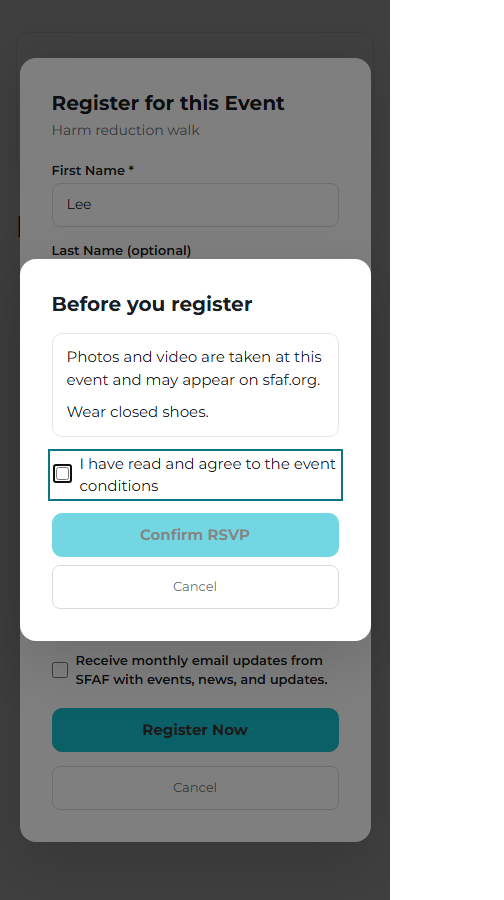
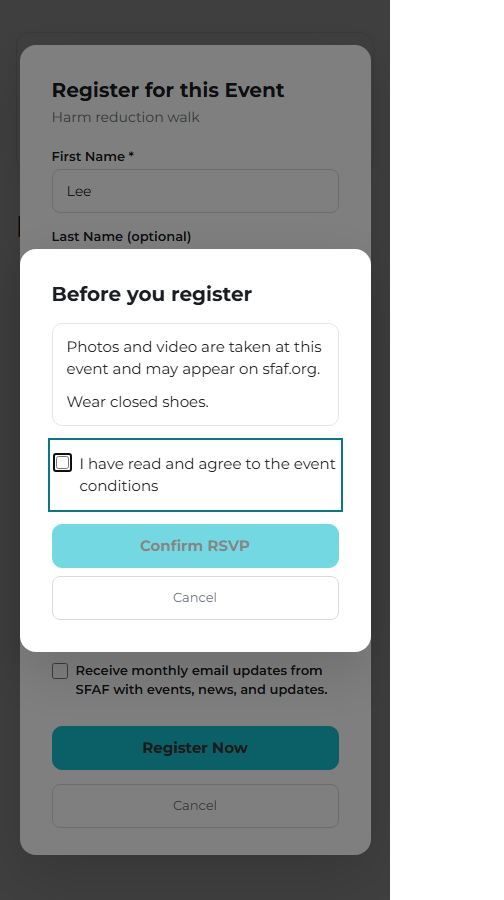
3.110.0: tick labels reach 44px by padding, keeping the box on the first line; the schema plant follows 13

Changed region(s): [[0.0298, 0.0311, 0.744, 0.9022], [0.0298, 0.9333, 0.744, 0.9644]]

diff --git a/public/css/portal.css b/public/css/portal.css
@@ -5215,7 +5215,8 @@ body.uc-modal-open { overflow: hidden; }
    phone pass measures. Fields, selects, buttons, tick-box rows and the
    summary that opens the image picker take min-height, which wins over any
    height they declare. The 16px "?" keeps its look and gains a 44px hit
-   area round it, drawn by ::after. Two classes or more throughout, so the
+   area round it, drawn by ::after. A tick's label grows by padding, not by
+   centring, so its box stays on the first line. Two classes or more throughout, so the
    button rules above, at one class plus one, cannot take it back.
    ------------------------------------------------------------------------ */
 @media (pointer: coarse), (max-width: 600px) {
@@ -5231,9 +5232,9 @@ body.uc-modal-open { overflow: hidden; }
     /* Required, In person only and the 44px remove stay on one line in 390px. */
     .uc-questions .uc-q-ticks { gap: 0 8px; }
     .uc-portal summary.uc-outline-btn { display: inline-flex; align-items: center; }
-    .uc-portal .uc-check, .uc-portal .uc-radio-row { min-height: 44px; align-items: center; margin-bottom: 0; }
-    /* The box carries align-self: flex-start from the baseline, so it is centred by name. */
-    .uc-portal .uc-check > input, .uc-portal .uc-radio-row > input { align-self: center; margin-top: 0; }
+    /* The box stays on the label's first line (checkbox-align-test); 11px above
+       and below a 22px line make the 44px, and a longer label just grows. */
+    .uc-portal .uc-check, .uc-portal .uc-radio-row { box-sizing: border-box; min-height: 44px; padding-top: 11px; padding-bottom: 11px; margin-bottom: 0; }
     .uc-portal .uc-seg-opt span { display: flex; align-items: center; min-height: 44px; }
     .uc-portal .uc-help-btn { position: relative; }
     .uc-portal .uc-help-btn::after { content: ""; position: absolute; top: -14px; right: -14px; bottom: -14px; left: -14px; }

diff --git a/public/css/calendar.css b/public/css/calendar.css
@@ -5263,10 +5263,9 @@ body.uc-calendar-page [data-wg-hidden] { display: none !important; }
    ------------------------------------------------------------------------ */
 @media (pointer: coarse), (max-width: 600px) {
     .uc-rsvp-modal-overlay .uc-rsvp-form input:not([type="checkbox"]):not([type="radio"]) { min-height: 44px; }
+    /* Padding, not centring: the box stays on the label's first line. */
     .uc-rsvp-form .uc-rsvp-optin,
-    .uc-agree-dialog .uc-rsvp-optin { min-height: 44px; align-items: center; }
-    .uc-rsvp-form .uc-rsvp-optin input,
-    .uc-agree-dialog .uc-rsvp-optin input { margin-top: 0; }
+    .uc-agree-dialog .uc-rsvp-optin { box-sizing: border-box; min-height: 44px; padding-top: 11px; padding-bottom: 11px; }
     .uc-rsvp-modal .uc-rsvp-cancel,
     .uc-rsvp-modal .uc-rsvp-submit { min-height: 44px; }
     .uc-single .uc-actionbtn { min-height: 44px; }

diff --git a/.claude/plant-source-rsvps.php b/.claude/plant-source-rsvps.php
@@ -76,7 +76,7 @@ $plants = array(
 
     'the schema version is not bumped, so the pass never runs' => array(
         'file' => 'sfaf-calendar.php',
-        'from' => "define( 'SFAF_DB_VERSION', '12' );",
+        'from' => "define( 'SFAF_DB_VERSION', '13' );",
         'to'   => "define( 'SFAF_DB_VERSION', '7' );",
     ),
 

diff --git a/DESIGN.md b/DESIGN.md
@@ -1250,8 +1250,10 @@ a narrow window, which is what the pass measures.
   token chips, link buttons, the tour link, the questions' icon buttons (also
   44px wide), the image summary, the segmented options (36px) and every
   `.uc-check` and `.uc-radio-row` label (22px) take `min-height: 44px`. A tick
-  label centres its box, which the baseline had set to `align-self:
-  flex-start`, and drops its 8px bottom margin, the 44px being its own air.
+  label grows by 11px of padding above and below, never by centring, so its
+  box stays on the first line (`.claude/checkbox-align-test.php`), and drops
+  its 8px bottom margin, the 44px being its own air. The RSVP form's and the
+  dialog's tick labels do the same.
 - The "?" help glyph stays a 16px circle. Its target is a `::after` 14px
   outside it on every side, 44 by 44, which is what the pass measures for it.
 - The RSVP form: the fields (42px), the tick labels (19 to 38px), Cancel (38px)
